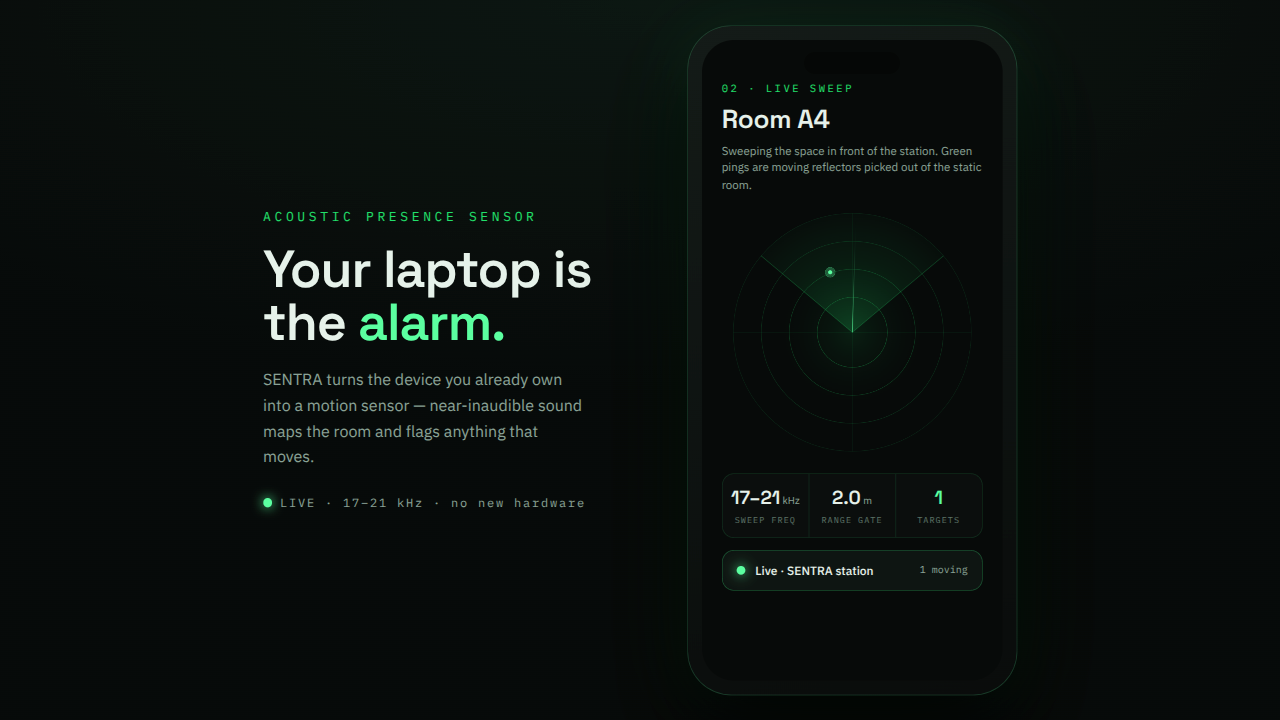
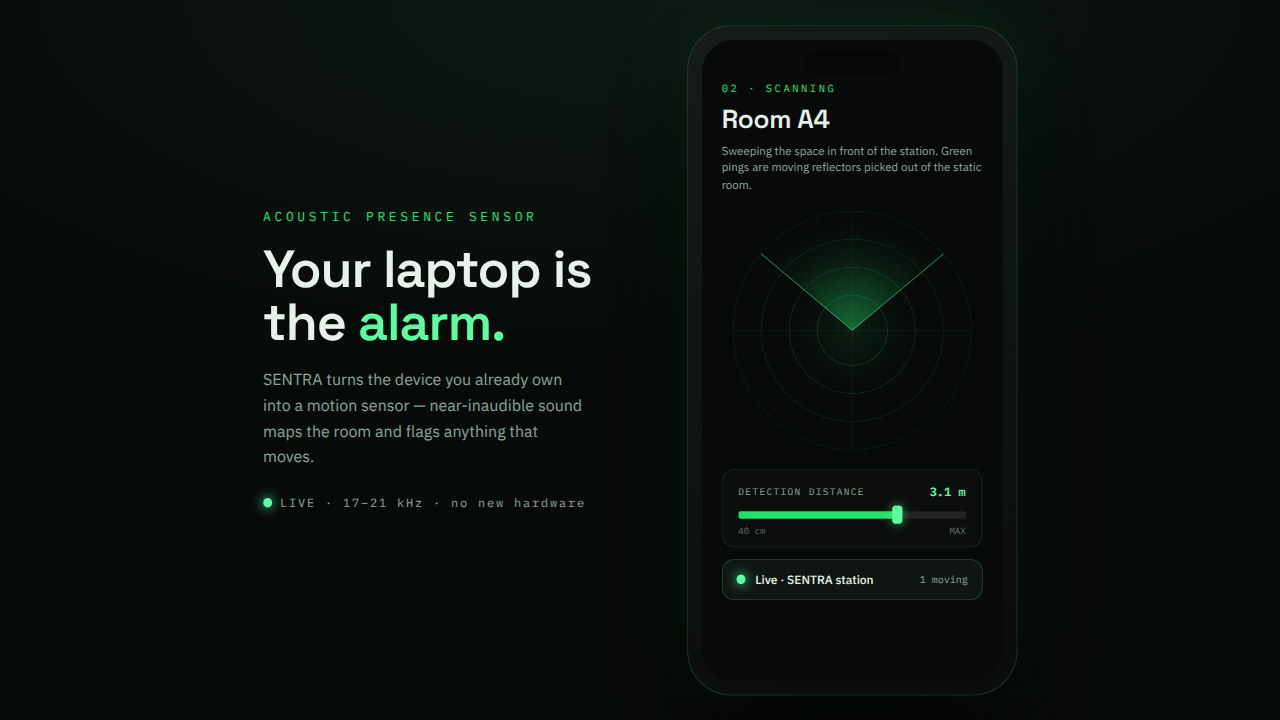
Match radar B-roll mock to latest app UI (distance slider, scanning cone)

diff --git a/video/sentra-radar-mock.html b/video/sentra-radar-mock.html
@@ -5,20 +5,19 @@
 <title>SENTRA — radar mock (B-roll)</title>
 <link rel="preconnect" href="https://fonts.googleapis.com">
 <link rel="preconnect" href="https://fonts.gstatic.com" crossorigin>
-<link href="https://fonts.googleapis.com/css2?family=Space+Grotesk:wght@500;600;700&family=IBM+Plex+Mono:wght@400;500&family=IBM+Plex+Sans:wght@400;500&display=swap" rel="stylesheet">
+<link href="https://fonts.googleapis.com/css2?family=Space+Grotesk:wght@500;600;700&family=IBM+Plex+Mono:wght@400;500;600&family=IBM+Plex+Sans:wght@400;500&display=swap" rel="stylesheet">
 <style>
   :root{
     --bg:#070A09; --bgRaise:#0B0F0D; --bgPanel:#0E1512;
     --ink:#E6F2EA; --inkDim:#8AA396; --inkFaint:#5C7266;
     --green:#22E06B; --greenBright:#5BFFA0; --greenSoft:#8DFFB0; --amber:#FFD166;
-    --lineGreen:rgba(52,226,122,.14); --lineMid:rgba(52,226,122,.30);
+    --lineGreen:rgba(52,226,122,.14); --lineMid:rgba(52,226,122,.30); --lineWhite:rgba(255,255,255,.08);
   }
   *{margin:0;box-sizing:border-box}
   html,body{width:1280px;height:720px;overflow:hidden;background:
     radial-gradient(120% 90% at 50% 0%, #0c1712 0%, #070A09 60%);
     font-family:"IBM Plex Sans",system-ui,sans-serif;color:var(--ink)}
   .stage{width:1280px;height:720px;display:flex;align-items:center;justify-content:center;gap:64px}
-  /* left caption column */
   .caption{width:360px}
   .caption .ey{font-family:"IBM Plex Mono",monospace;font-size:13px;letter-spacing:.28em;
     color:var(--green);text-transform:uppercase;margin-bottom:18px}
@@ -28,34 +27,27 @@
   .caption p{color:var(--inkDim);font-size:16px;line-height:1.6;max-width:330px}
   .tag{display:inline-flex;align-items:center;gap:8px;margin-top:26px;
     font-family:"IBM Plex Mono",monospace;font-size:12px;letter-spacing:.15em;color:var(--inkDim)}
-  .dot{width:9px;height:9px;border-radius:50%;background:var(--greenBright);
-    box-shadow:0 0 12px var(--greenBright)}
-  /* phone */
+  .dot{width:9px;height:9px;border-radius:50%;background:var(--greenBright);box-shadow:0 0 12px var(--greenBright)}
   .phone{width:330px;height:670px;border-radius:44px;padding:14px;
-    background:linear-gradient(160deg,#141b18,#090c0b);
-    border:1px solid rgba(91,255,160,.18);
+    background:linear-gradient(160deg,#141b18,#090c0b);border:1px solid rgba(91,255,160,.18);
     box-shadow:0 40px 90px rgba(0,0,0,.6), 0 0 60px rgba(34,224,107,.10)}
-  .screen{width:100%;height:100%;border-radius:32px;background:var(--bg);
-    overflow:hidden;position:relative;padding:22px 20px}
-  .notch{position:absolute;top:12px;left:50%;transform:translateX(-50%);
-    width:96px;height:22px;background:#050706;border-radius:12px}
-  .k{font-family:"IBM Plex Mono",monospace;font-size:10.5px;letter-spacing:.24em;
-    color:var(--green);text-transform:uppercase;margin-top:20px}
-  .title{font-family:"Space Grotesk",sans-serif;font-weight:600;font-size:26px;
-    margin-top:8px;letter-spacing:-.01em}
+  .screen{width:100%;height:100%;border-radius:32px;background:var(--bg);overflow:hidden;position:relative;padding:22px 20px}
+  .notch{position:absolute;top:12px;left:50%;transform:translateX(-50%);width:96px;height:22px;background:#050706;border-radius:12px}
+  .k{font-family:"IBM Plex Mono",monospace;font-size:10.5px;letter-spacing:.24em;color:var(--green);text-transform:uppercase;margin-top:20px}
+  .title{font-family:"Space Grotesk",sans-serif;font-weight:600;font-size:26px;margin-top:8px;letter-spacing:-.01em}
   .sub{color:var(--inkDim);font-size:11.5px;line-height:1.5;margin-top:6px}
-  canvas{display:block;margin:14px auto 0;width:250px;height:250px}
-  .stats{display:flex;gap:0;margin-top:16px;border:1px solid var(--lineGreen);
-    border-radius:12px;background:var(--bgRaise);overflow:hidden}
-  .stat{flex:1;padding:12px 8px;text-align:center}
-  .stat + .stat{border-left:1px solid var(--lineGreen)}
-  .stat .v{font-family:"Space Grotesk",sans-serif;font-weight:600;font-size:19px}
-  .stat .v.g{color:var(--greenBright)}
-  .stat .u{font-size:10px;color:var(--inkDim)}
-  .stat .l{font-family:"IBM Plex Mono",monospace;font-size:8.5px;letter-spacing:.12em;
-    color:var(--inkFaint);text-transform:uppercase;margin-top:4px}
-  .status{display:flex;align-items:center;gap:10px;margin-top:12px;padding:12px 14px;
-    border:1px solid var(--lineMid);border-radius:12px;background:var(--bgPanel)}
+  canvas{display:block;margin:12px auto 0;width:250px;height:250px}
+  /* detection-distance slider (matches latest app) */
+  .dist{margin-top:14px;border:1px solid var(--lineGreen);border-radius:12px;background:var(--bgRaise);padding:14px 16px 10px}
+  .drow{display:flex;align-items:center}
+  .dl{font-family:"IBM Plex Mono",monospace;font-size:9.5px;letter-spacing:.14em;color:var(--inkDim)}
+  .dv{margin-left:auto;font-family:"IBM Plex Mono",monospace;font-size:12px;font-weight:600;color:var(--greenBright)}
+  .track{position:relative;height:7px;margin:12px 0 6px;background:var(--lineWhite);border-radius:2px}
+  .fill{position:absolute;left:0;top:0;bottom:0;width:70%;background:var(--green);border-radius:2px}
+  .thumb{position:absolute;left:70%;top:50%;transform:translate(-50%,-50%);width:10px;height:18px;border-radius:3px;
+    background:var(--greenBright);box-shadow:0 0 10px rgba(91,255,160,.5)}
+  .dends{display:flex;justify-content:space-between;font-family:"IBM Plex Mono",monospace;font-size:9px;color:var(--inkFaint)}
+  .status{display:flex;align-items:center;gap:10px;margin-top:12px;padding:12px 14px;border:1px solid var(--lineMid);border-radius:12px;background:var(--bgPanel)}
   .status .t{flex:1;font-size:12px;font-weight:500}
   .status .m{font-family:"IBM Plex Mono",monospace;font-size:10px;color:var(--inkDim)}
 </style>
@@ -68,18 +60,17 @@
     <p>SENTRA turns the device you already own into a motion sensor — near-inaudible sound maps the room and flags anything that moves.</p>
     <div class="tag"><span class="dot"></span>LIVE · 17–21 kHz · no new hardware</div>
   </div>
-
   <div class="phone">
     <div class="screen">
       <div class="notch"></div>
-      <div class="k">02 · Live sweep</div>
+      <div class="k">02 · Scanning</div>
       <div class="title">Room A4</div>
       <div class="sub">Sweeping the space in front of the station. Green pings are moving reflectors picked out of the static room.</div>
       <canvas id="r" width="500" height="500"></canvas>
-      <div class="stats">
-        <div class="stat"><span class="v">17–21</span><span class="u"> kHz</span><div class="l">Sweep freq</div></div>
-        <div class="stat"><span class="v">2.0</span><span class="u"> m</span><div class="l">Range gate</div></div>
-        <div class="stat"><span class="v g" id="cnt">1</span><div class="l">Targets</div></div>
+      <div class="dist">
+        <div class="drow"><span class="dl">DETECTION DISTANCE</span><span class="dv">3.1 m</span></div>
+        <div class="track"><div class="fill"></div><div class="thumb"></div></div>
+        <div class="dends"><span>40 cm</span><span>MAX</span></div>
       </div>
       <div class="status">
         <span class="dot"></span>
@@ -89,57 +80,36 @@
     </div>
   </div>
 </div>
-
 <script>
-const cv = document.getElementById('r'), g = cv.getContext('2d');
-const W = 500, cx = 250, cy = 250, R = 238, FOV = 50 * Math.PI/180, UP = -Math.PI/2;
-// intruder tracks: [range 0..1 of radius, azimuth deg]. one walker crossing the cone.
-let t0 = performance.now();
-function targets(t){
-  const az = 34 * Math.sin(t*0.55);           // pace left<->right
-  const rng = 0.62 + 0.12*Math.sin(t*0.9);
-  const list = [{r:rng, az:az}];
-  return list;
-}
+const cv=document.getElementById('r'),g=cv.getContext('2d');
+const W=500,cx=250,cy=250,R=238,FOV=50*Math.PI/180,UP=-Math.PI/2;
+const t0=performance.now();
 function draw(now){
-  const t = (now - t0)/1000;
+  const t=(now-t0)/1000;
   g.clearRect(0,0,W,W);
-  // glow
-  let rg = g.createRadialGradient(cx,cy,0,cx,cy,R);
-  rg.addColorStop(0,'rgba(34,224,107,.10)'); rg.addColorStop(.7,'transparent');
-  g.fillStyle=rg; g.beginPath(); g.arc(cx,cy,R,0,7); g.fill();
-  // rings
-  for(let i=0;i<4;i++){ g.beginPath(); g.arc(cx,cy,R*(1-i*.235),0,7);
-    g.strokeStyle='rgba(34,224,107,'+(.12+i*.06)+')'; g.lineWidth=1; g.stroke(); }
-  // crosshair
-  g.strokeStyle='rgba(34,224,107,.10)'; g.lineWidth=1;
-  g.beginPath(); g.moveTo(cx,cy-R); g.lineTo(cx,cy+R); g.moveTo(cx-R,cy); g.lineTo(cx+R,cy); g.stroke();
-  // forward cone wedge
-  g.beginPath(); g.moveTo(cx,cy); g.arc(cx,cy,R,UP-FOV,UP+FOV); g.closePath();
-  let cg = g.createRadialGradient(cx,cy,0,cx,cy,R);
-  cg.addColorStop(0,'rgba(34,224,107,.18)'); cg.addColorStop(1,'rgba(34,224,107,.02)');
-  g.fillStyle=cg; g.fill();
-  // cone edges
-  g.strokeStyle='rgba(34,224,107,.35)'; g.lineWidth=1;
-  for(const s of [-1,1]){ const a=UP+s*FOV; g.beginPath(); g.moveTo(cx,cy);
-    g.lineTo(cx+Math.cos(a)*R, cy+Math.sin(a)*R); g.stroke(); }
-  // sweep line
-  const sa = UP + FOV*Math.sin(t*1.2);
-  const lx=cx+Math.cos(sa)*R, ly=cy+Math.sin(sa)*R;
-  let lg=g.createLinearGradient(cx,cy,lx,ly);
-  lg.addColorStop(0,'rgba(91,255,160,.7)'); lg.addColorStop(1,'transparent');
-  g.strokeStyle=lg; g.lineWidth=1.6; g.beginPath(); g.moveTo(cx,cy); g.lineTo(lx,ly); g.stroke();
-  // blips (green pings)
-  const ts = targets(t);
-  for(let i=0;i<ts.length;i++){
-    const a = ts[i].az*Math.PI/180, fr = ts[i].r;
-    const x = cx + fr*R*Math.sin(a), y = cy - fr*R*Math.cos(a);
-    const ph = (t*0.5 + i*0.4)%1;
-    g.beginPath(); g.arc(x,y,6+ph*26,0,7);
-    g.strokeStyle='rgba(91,255,160,'+((1-ph)*.6)+')'; g.lineWidth=1; g.stroke();
-    g.beginPath(); g.arc(x,y,9,0,7); g.fillStyle='rgba(91,255,160,.28)'; g.fill();
-    g.beginPath(); g.arc(x,y,4,0,7); g.fillStyle='#5BFFA0'; g.fill();
-  }
+  let rg=g.createRadialGradient(cx,cy,0,cx,cy,R);
+  rg.addColorStop(0,'rgba(34,224,107,.10)');rg.addColorStop(.7,'transparent');
+  g.fillStyle=rg;g.beginPath();g.arc(cx,cy,R,0,7);g.fill();
+  for(let i=0;i<4;i++){g.beginPath();g.arc(cx,cy,R*(1-i*.235),0,7);
+    g.strokeStyle='rgba(34,224,107,'+(.12+i*.06)+')';g.lineWidth=1;g.stroke();}
+  g.strokeStyle='rgba(34,224,107,.10)';g.lineWidth=1;
+  g.beginPath();g.moveTo(cx,cy-R);g.lineTo(cx,cy+R);g.moveTo(cx-R,cy);g.lineTo(cx+R,cy);g.stroke();
+  // scan cone rising from the core (the sensor's real FOV)
+  g.beginPath();g.moveTo(cx,cy);g.arc(cx,cy,R,UP-FOV,UP+FOV);g.closePath();
+  let cg=g.createRadialGradient(cx,cy,0,cx,cy,R);
+  cg.addColorStop(0,'rgba(34,224,107,.40)');cg.addColorStop(.55,'rgba(34,224,107,.10)');cg.addColorStop(1,'transparent');
+  g.fillStyle=cg;g.fill();
+  g.strokeStyle='rgba(91,255,160,.55)';g.lineWidth=1.5;
+  for(const s of[-1,1]){const a=UP+s*FOV;g.beginPath();g.moveTo(cx,cy);g.lineTo(cx+Math.cos(a)*R,cy+Math.sin(a)*R);g.stroke();}
+  // pulses travelling up the cone
+  for(let i=0;i<3;i++){const p=(t*0.5+i/3)%1;g.beginPath();g.arc(cx,cy,p*R,UP-FOV,UP+FOV);
+    g.strokeStyle='rgba(91,255,160,'+((1-p)*.5)+')';g.lineWidth=2;g.stroke();}
+  // moving target — green ping
+  const az=34*Math.sin(t*0.55)*Math.PI/180, fr=0.62+0.12*Math.sin(t*0.9);
+  const x=cx+fr*R*Math.sin(az), y=cy-fr*R*Math.cos(az), ph=(t*0.5)%1;
+  g.beginPath();g.arc(x,y,6+ph*26,0,7);g.strokeStyle='rgba(91,255,160,'+((1-ph)*.6)+')';g.lineWidth=1;g.stroke();
+  g.beginPath();g.arc(x,y,9,0,7);g.fillStyle='rgba(91,255,160,.28)';g.fill();
+  g.beginPath();g.arc(x,y,4,0,7);g.fillStyle='#5BFFA0';g.fill();
   requestAnimationFrame(draw);
 }
 requestAnimationFrame(draw);